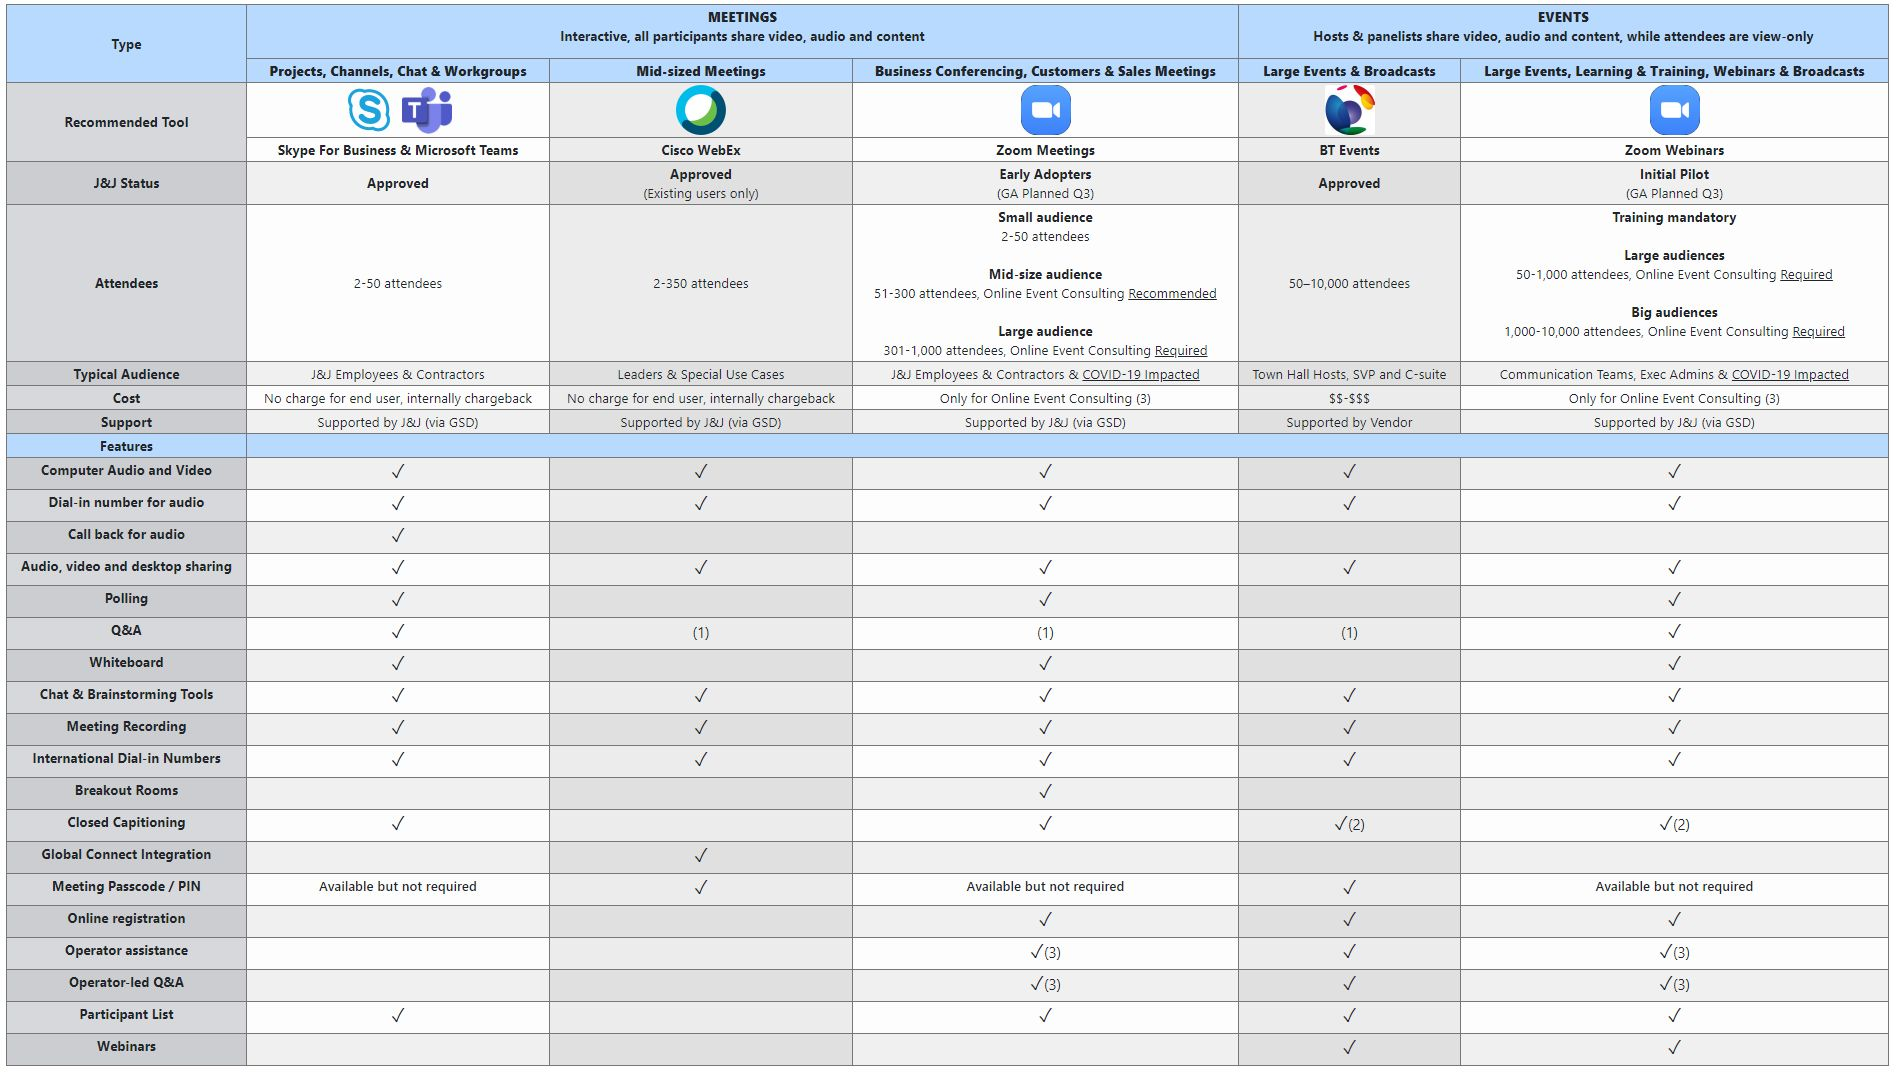
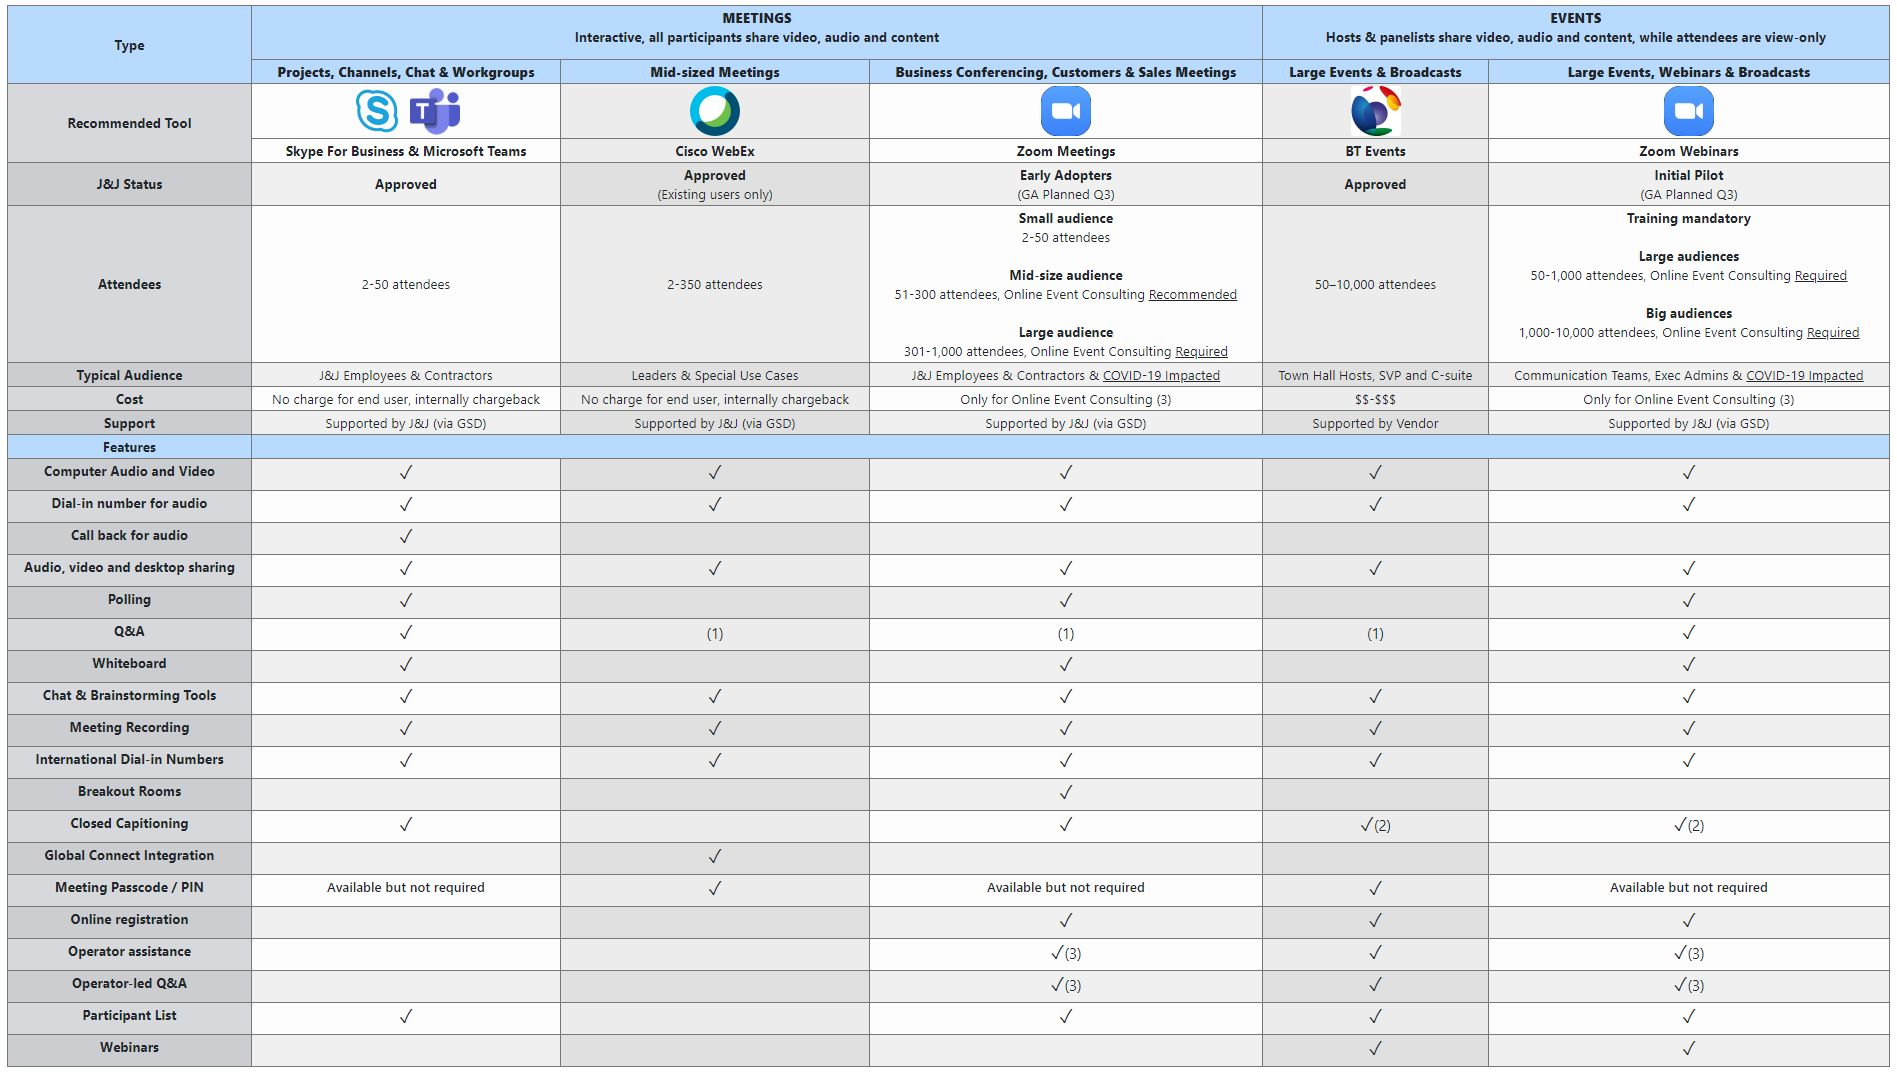
Virtual Meetings - Refinements

diff --git a/Scenarios/VirtualMeetings/toolkit_vm.html b/Scenarios/VirtualMeetings/toolkit_vm.html
@@ -49,7 +49,7 @@
                         <th class="align-middle"><b>Mid-sized Meetings</b></th>
                         <th class="align-middle"><b>Business Conferencing, Customers &amp; Sales Meetings</b></th>
                         <th class="align-middle"><b>Large Events &amp; Broadcasts</b></th>
-                        <th class="align-middle"><b>Large Events, Learning &amp; Training, Webinars &amp; Broadcasts</b></th>
+                        <th class="align-middle"><b>Large Events, Webinars &amp; Broadcasts</b></th>
                     </tr>
                     <tr class="text-center">
                         <th scope="col" class="align-middle" rowspan="3">Recommended Tool</th>
